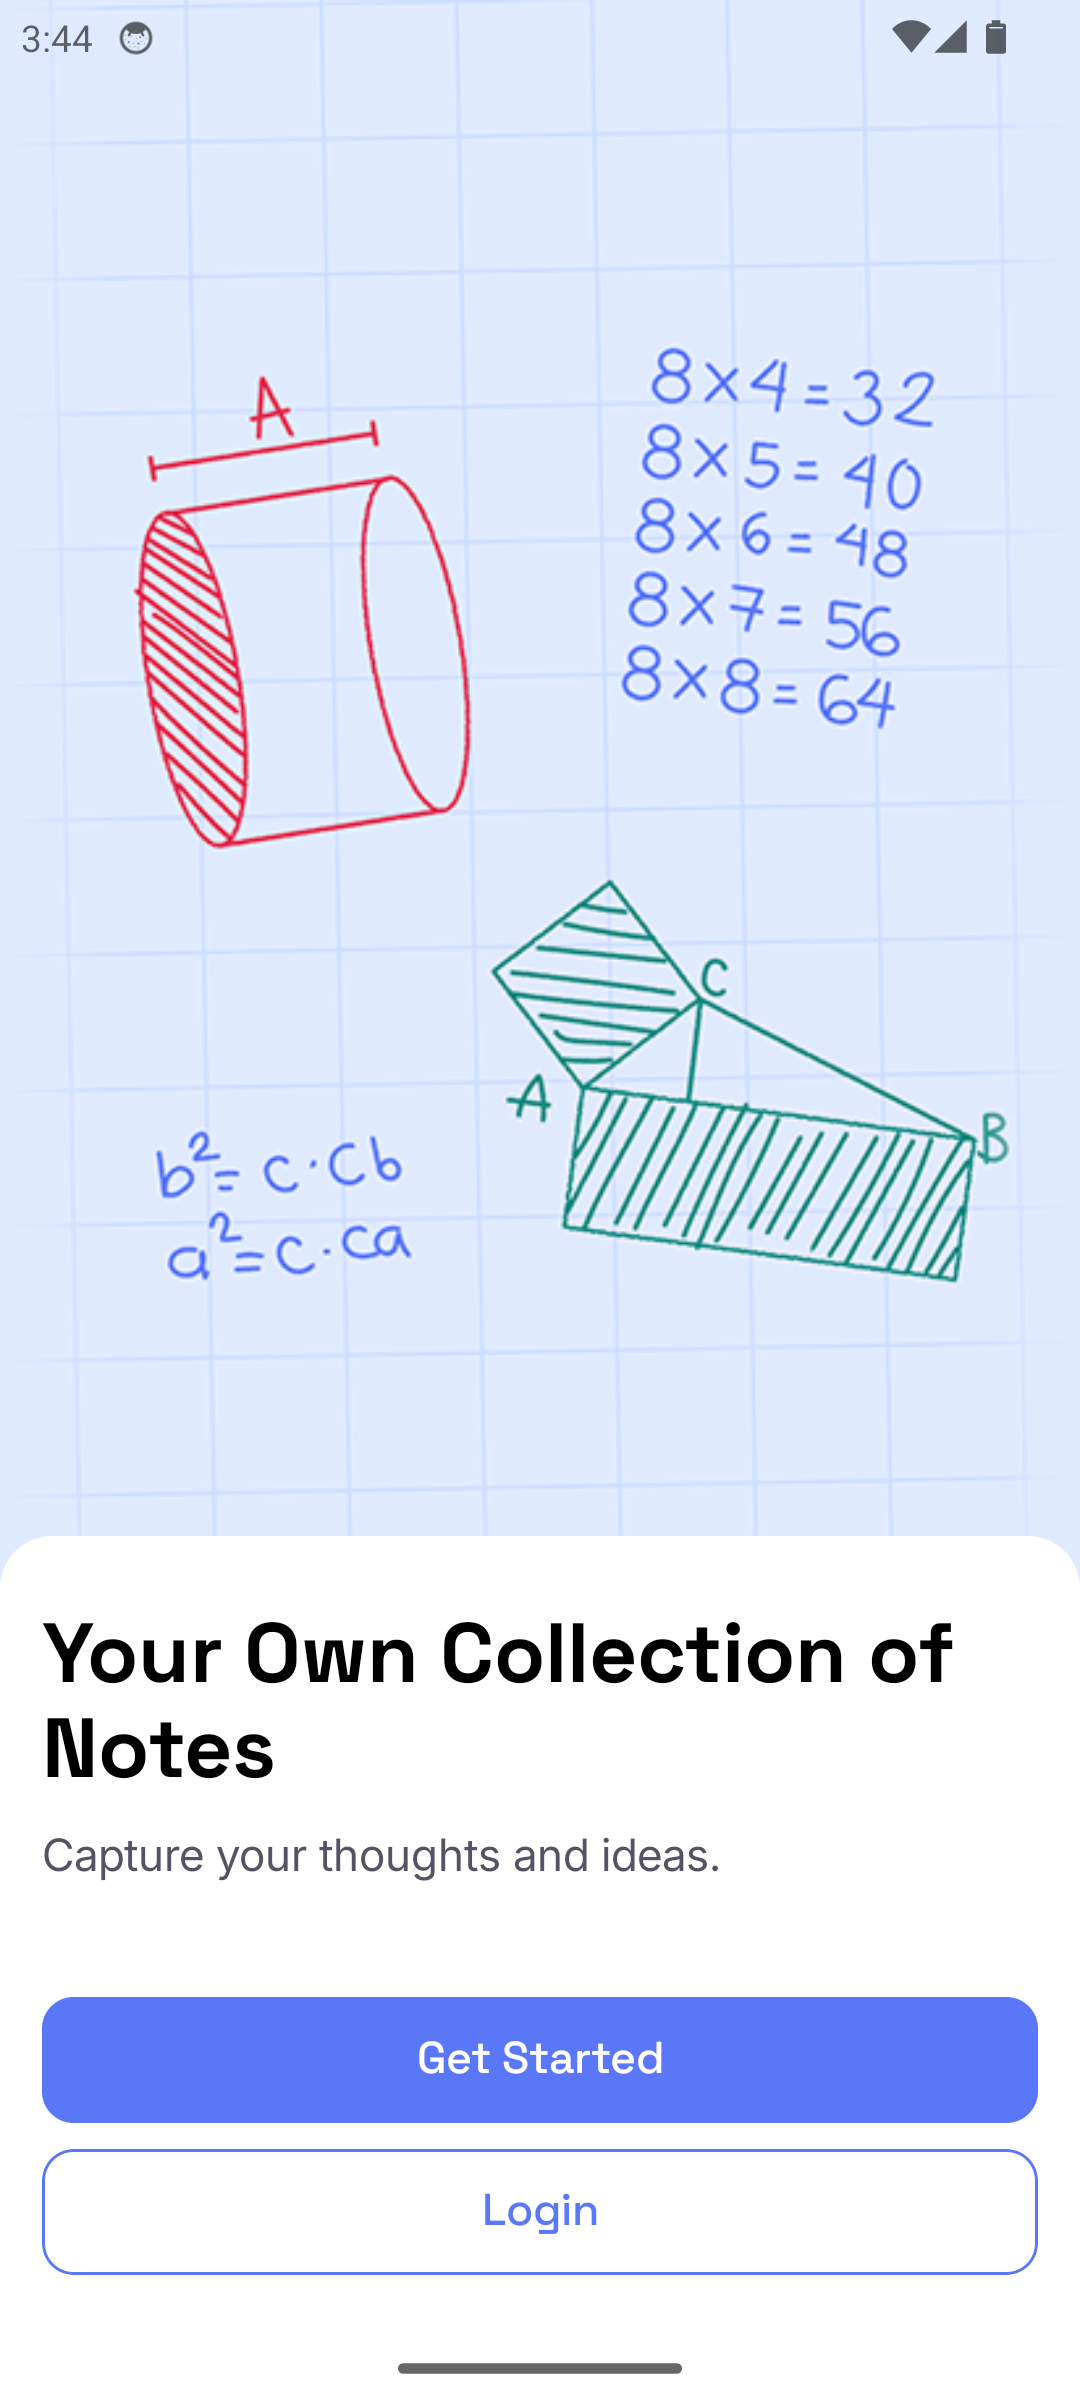
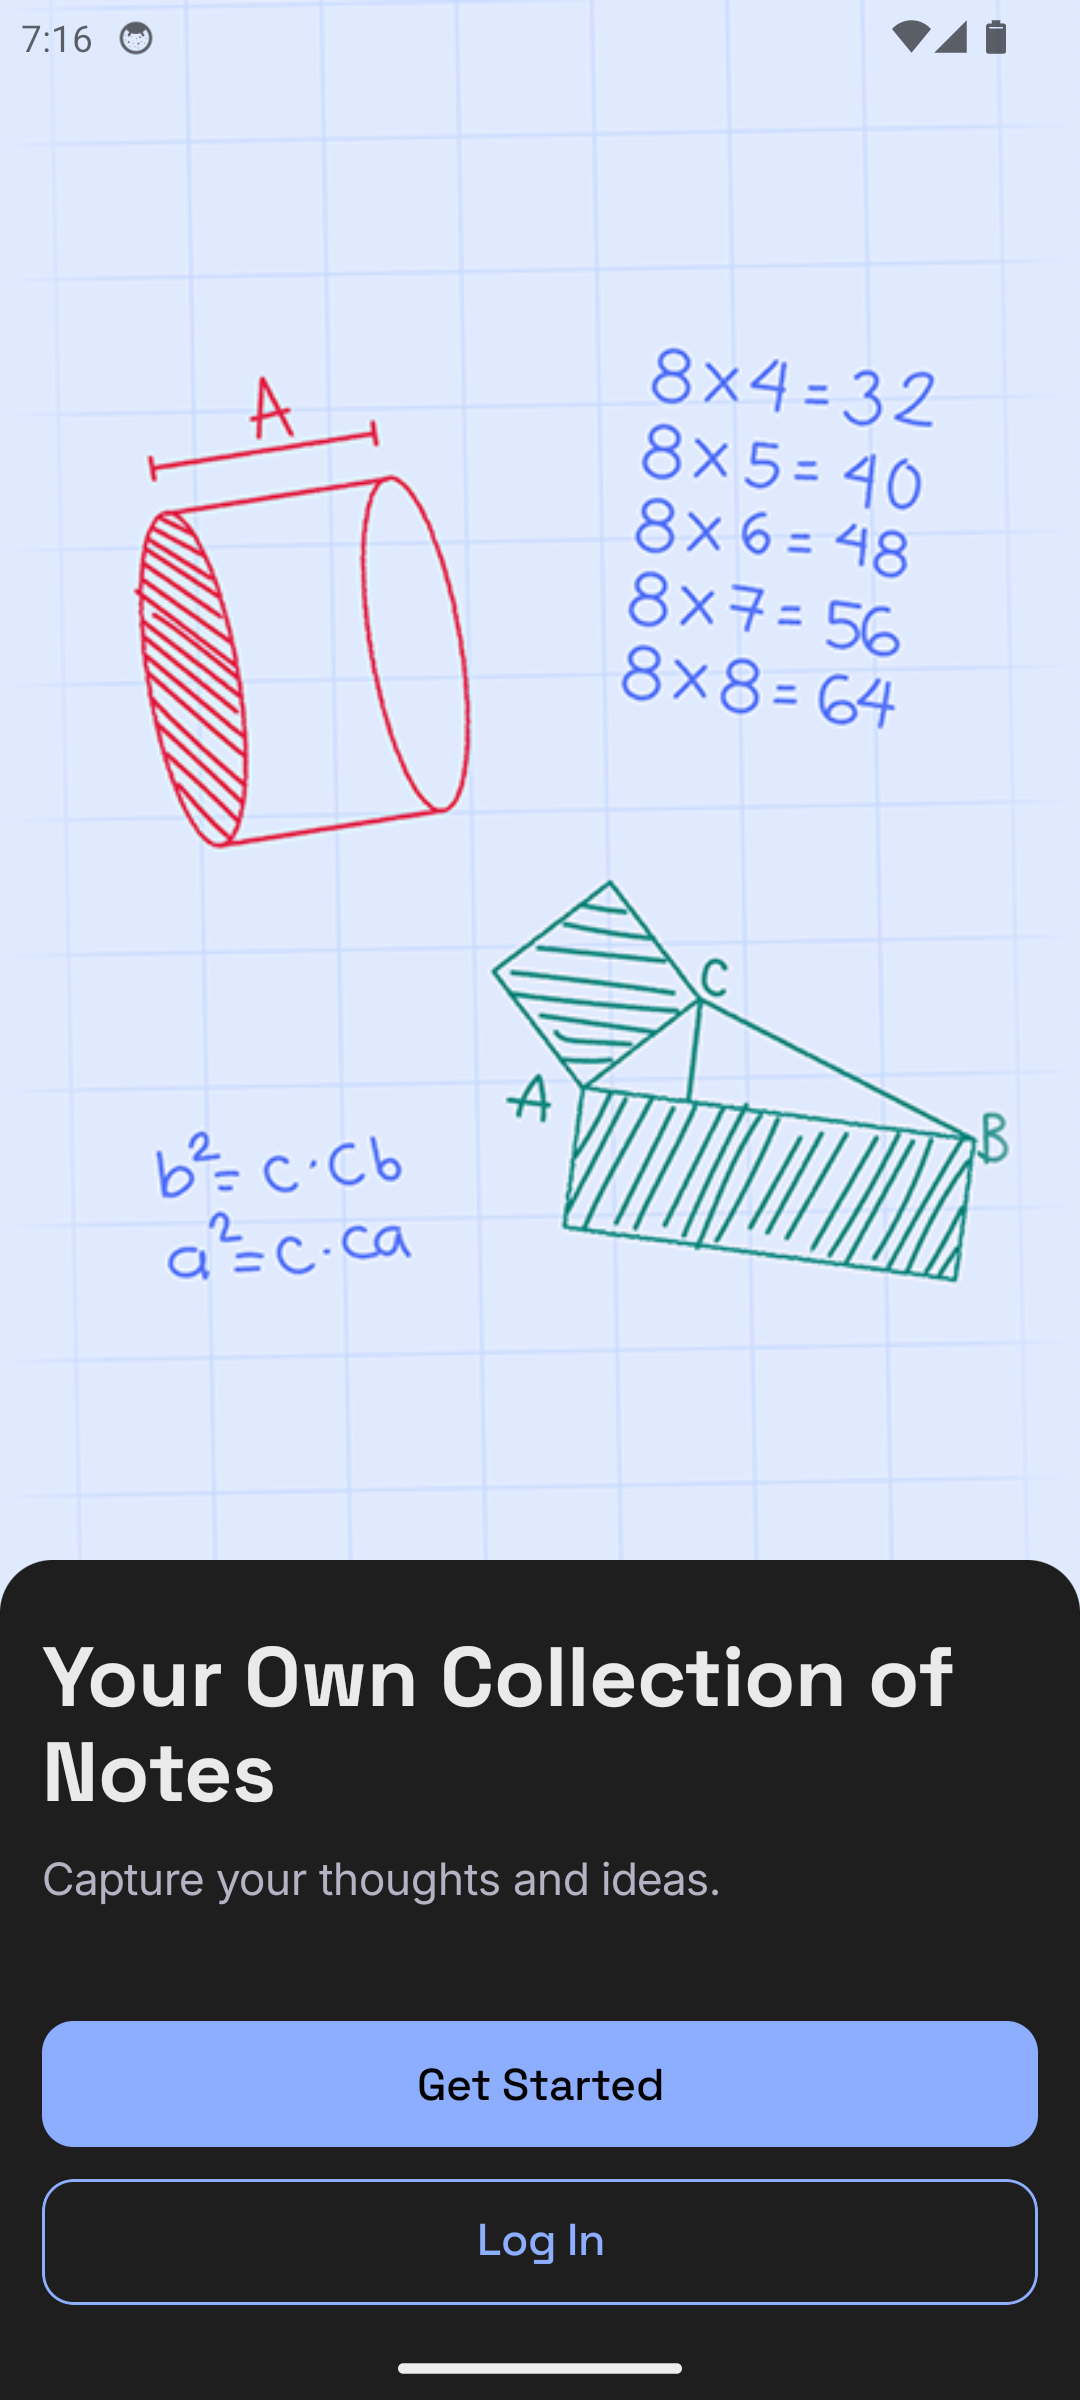
[M2-005] Update readme

diff --git a/app/src/main/java/com/icdid/notemark/navigation/NavigationRoot.kt b/app/src/main/java/com/icdid/notemark/navigation/NavigationRoot.kt
@@ -1,5 +1,9 @@
 package com.icdid.notemark.navigation
 
+import androidx.compose.animation.fadeIn
+import androidx.compose.animation.fadeOut
+import androidx.compose.animation.slideInVertically
+import androidx.compose.animation.slideOutVertically
 import androidx.compose.foundation.layout.fillMaxSize
 import androidx.compose.runtime.Composable
 import androidx.compose.ui.Modifier
@@ -37,10 +41,14 @@ private fun NavGraphBuilder.authGraph(navController: NavHostController) {
     navigation<Screen.Auth>(
         startDestination = Screen.Auth.Landing
     ) {
-        composable<Screen.Auth.Landing> {
+        composable<Screen.Auth.Landing>(
+            exitTransition = {
+                slideOutVertically(targetOffsetY = { -it / 2 }) + fadeOut()
+            },
+        ) {
             LandingScreen(
                 onAction = { action ->
-                    when(action) {
+                    when (action) {
                         LandingAction.OnGettingStartedClicked -> {
                             navController.navigate(Screen.Auth.Register) {
                                 popUpTo(Screen.Auth.Landing) {
@@ -48,6 +56,7 @@ private fun NavGraphBuilder.authGraph(navController: NavHostController) {
                                 }
                             }
                         }
+
                         LandingAction.OnLoginClicked -> {
                             navController.navigate(Screen.Auth.Login) {
                                 popUpTo(Screen.Auth.Landing) {
@@ -59,7 +68,11 @@ private fun NavGraphBuilder.authGraph(navController: NavHostController) {
                 }
             )
         }
-        composable<Screen.Auth.Login> {
+        composable<Screen.Auth.Login>(
+            enterTransition = {
+                slideInVertically(initialOffsetY = { it }) + fadeIn()
+            },
+        ) {
             LoginRoot(
                 onNavigateToRegister = {
                     navController.navigate(Screen.Auth.Register) {
@@ -79,7 +92,11 @@ private fun NavGraphBuilder.authGraph(navController: NavHostController) {
                 },
             )
         }
-        composable<Screen.Auth.Register> {
+        composable<Screen.Auth.Register>(
+            enterTransition = {
+                slideInVertically(initialOffsetY = { it }) + fadeIn()
+            },
+        ) {
             RegisterRoot(
                 onNavigateToLogin = {
                     navController.navigate(Screen.Auth.Login) {
@@ -108,7 +125,11 @@ private fun NavGraphBuilder.homeGraph(navController: NavHostController) {
     navigation<Screen.Home>(
         startDestination = Screen.Home.AllNotes
     ) {
-        composable<Screen.Home.AllNotes> {
+        composable<Screen.Home.AllNotes>(
+            popEnterTransition = {
+                slideInVertically(initialOffsetY = { -it / 2 }) + fadeIn()
+            },
+        ) {
             AllNotesRoot(
                 onNavigateToNoteDetail = {
                     navController.navigate(Screen.Home.NoteDetail(it))
@@ -116,7 +137,14 @@ private fun NavGraphBuilder.homeGraph(navController: NavHostController) {
             )
         }
 
-        composable<Screen.Home.NoteDetail> {
+        composable<Screen.Home.NoteDetail>(
+            enterTransition = {
+                slideInVertically(initialOffsetY = { it })
+            },
+            exitTransition = {
+                slideOutVertically(targetOffsetY = { it })
+            },
+        ) {
             val noteId = it.toRoute<Screen.Home.NoteDetail>().noteId
             NoteDetailRoot(
                 onNavigateBack = {

diff --git a/core/presentation/src/main/java/com/icdid/core/presentation/theme/Theme.kt b/core/presentation/src/main/java/com/icdid/core/presentation/theme/Theme.kt
@@ -1,9 +1,15 @@
 package com.icdid.core.presentation.theme
 
+import android.app.Activity
+import androidx.compose.foundation.isSystemInDarkTheme
 import androidx.compose.material3.MaterialTheme
 import androidx.compose.material3.Typography
+import androidx.compose.material3.darkColorScheme
 import androidx.compose.material3.lightColorScheme
 import androidx.compose.runtime.Composable
+import androidx.compose.runtime.SideEffect
+import androidx.compose.ui.platform.LocalView
+import androidx.core.view.WindowInsetsControllerCompat
 
 private val LightColorScheme = lightColorScheme(
     primary = primary,
@@ -14,14 +20,37 @@ private val LightColorScheme = lightColorScheme(
     surfaceContainerLowest = surfaceLowest,
 )
 
+private val DarkColorScheme = darkColorScheme(
+    primary = darkPrimary,
+    onPrimary = darkOnPrimary,
+    surface = darkSurface,
+    onSurface = darkOnSurface,
+    onSurfaceVariant = darkOnSurfaceVariant,
+    surfaceContainerLowest = darkSurfaceLowest,
+    error = darkError,
+)
+
 private val typography = Typography()
 
 @Composable
 fun NoteMarkTheme(
+    useDarkTheme: Boolean = isSystemInDarkTheme(),
     content: @Composable () -> Unit
 ) {
+    val colors = if (useDarkTheme) DarkColorScheme else LightColorScheme
+    val view = LocalView.current
+    val isLightTheme = !useDarkTheme
+
+    SideEffect {
+        val window = (view.context as? Activity)?.window
+        if (!view.isInEditMode && window != null) {
+            WindowInsetsControllerCompat(window, window.decorView).isAppearanceLightStatusBars =
+                isLightTheme
+        }
+    }
+
     MaterialTheme(
-        colorScheme = LightColorScheme,
+        colorScheme = colors,
         typography = typography,
         content = content
     )

diff --git a/dashboard/presentation/src/main/java/com/icdid/dashboard/presentation/components/NoteDialog.kt b/dashboard/presentation/src/main/java/com/icdid/dashboard/presentation/components/NoteDialog.kt
@@ -1,18 +1,14 @@
 package com.icdid.dashboard.presentation.components
 
-import android.app.Activity
 import androidx.compose.material3.AlertDialog
 import androidx.compose.material3.MaterialTheme
 import androidx.compose.material3.Text
 import androidx.compose.material3.TextButton
 import androidx.compose.runtime.Composable
-import androidx.compose.runtime.SideEffect
-import androidx.compose.ui.platform.LocalView
 import androidx.compose.ui.res.stringResource
 import androidx.compose.ui.text.font.FontWeight
 import androidx.compose.ui.tooling.preview.Preview
 import androidx.compose.ui.window.DialogProperties
-import androidx.core.view.WindowCompat
 import com.icdid.core.presentation.theme.LocalNoteMarkTypography
 import com.icdid.core.presentation.theme.NoteMarkTheme
 import com.icdid.dashboard.presentation.R
@@ -27,14 +23,6 @@ fun NoteDialog(
     confirmText: String,
     dismissText: String
 ) {
-    val view = LocalView.current
-    SideEffect  {
-        val window = (view.context as? Activity)?.window
-        if (!view.isInEditMode && window != null) {
-            WindowCompat.getInsetsController(window, view).isAppearanceLightStatusBars = true
-        }
-    }
-
     if (showDialog) {
         AlertDialog(
             properties = DialogProperties(

diff --git a/auth/presentation/src/main/java/com/icdid/auth/presentation/landing/LandingPortaitView.kt b/auth/presentation/src/main/java/com/icdid/auth/presentation/landing/LandingPortaitView.kt
@@ -83,10 +83,12 @@ fun LandingPortraitView(
                 text = stringResource(R.string.landing_title),
                 style = if (isTablet) {
                     LocalNoteMarkTypography.current.titleXLarge.copy(
+                        color = MaterialTheme.colorScheme.onSurface,
                         textAlign = TextAlign.Center
                     )
                 } else {
                     LocalNoteMarkTypography.current.titleLarge.copy(
+                        color = MaterialTheme.colorScheme.onSurface,
                         textAlign = TextAlign.Start
                     )
                 }

diff --git a/core/presentation/src/main/java/com/icdid/core/presentation/theme/Color.kt b/core/presentation/src/main/java/com/icdid/core/presentation/theme/Color.kt
@@ -20,9 +20,19 @@ val brandOpacity12 = Color(0xFFFFFFFF).copy(alpha = 0.12f)
 val landingLandscape = Color(0xFFE0EAFF)
 // end region
 
-val fabBackground = Brush.linearGradient(
+val fabBackground = Brush.verticalGradient(
     colors = listOf(
         Color(0xFF58A1F8),
         Color(0xFF5A4CF7)
     ),
 )
+
+// region dark mode
+val darkPrimary = Color(0xFF8DAEFF)
+val darkOnPrimary = Color(0xFF000000)
+val darkSurface = Color(0xFF121212)
+val darkOnSurface = Color(0xFFEAEAEA)
+val darkOnSurfaceVariant = Color(0xFFB3B3C3)
+val darkSurfaceLowest = Color(0xFF1E1E1E)
+val darkError = Color(0xFFFF5370)
+// end region

diff --git a/auth/presentation/src/main/java/com/icdid/auth/presentation/login/LoginPortraitView.kt b/auth/presentation/src/main/java/com/icdid/auth/presentation/login/LoginPortraitView.kt
@@ -35,7 +35,7 @@ fun LoginPortraitView(
 
     Column(
         modifier = customModifier,
-        horizontalAlignment = if(isTablet) Alignment.CenterHorizontally else Alignment.Start,
+        horizontalAlignment = if (isTablet) Alignment.CenterHorizontally else Alignment.Start,
     ) {
         LoginTitleView(isTablet = isTablet)
         LoginFormView(

diff --git a/dashboard/presentation/src/main/java/com/icdid/dashboard/presentation/all_notes/AllNotesLandscapeView.kt b/dashboard/presentation/src/main/java/com/icdid/dashboard/presentation/all_notes/AllNotesLandscapeView.kt
@@ -48,6 +48,7 @@ fun AllNotesLandscapeView(
                     ),
                     onAction = onAction,
                     modifier = Modifier
+                        .animateItem()
                 )
             }
         }

diff --git a/dashboard/presentation/src/main/java/com/icdid/dashboard/presentation/all_notes/AllNotesPortraitView.kt b/dashboard/presentation/src/main/java/com/icdid/dashboard/presentation/all_notes/AllNotesPortraitView.kt
@@ -48,6 +48,7 @@ fun AllNotesPortraitView(
                     ),
                     onAction = onAction,
                     modifier = Modifier
+                        .animateItem()
                 )
             }
         }

diff --git a/Readme.md b/Readme.md
@@ -7,18 +7,17 @@
 ## Project Status
 
 This project is divided in 4 different milestones that are launched every fortnight. 
-We are currently working in **milestone 1**
+We are currently working in **milestone 2**
 
 ### 🚨 Latest Features ###
 
-- **Landing Screen**
-  - For the user to choose whether to login or register.
-- **Login Screen**
-  - Three dots animation
-  - Storing tokens and navigating to dashboard when there's a successful login.
-- **Register Screen**
-  - Manage error handling for username, email and password.
-  - Implemented snack bar.
+- **All Notes Screen**
+  - Display list of Note with offline support.
+  - Create new note with default title
+- **Detail Note Screen**
+  - Display detail Note.
+  - Update Note data
+  - Implemented toast for message.
 
 ---
 
@@ -31,44 +30,35 @@ We are currently working in **milestone 1**
 - ✅ Kor Client for Network calls.
 - ✅ Material Design 3 components and theming.
 - ✅ Data Store for user preferences (encrypted with security crypto).
+- ✅ Room for database
 
 ---
 
 ## 🎥 Demo ##
 
-https://github.com/user-attachments/assets/bf4d1fc4-500b-4f3a-8d5f-ecdddd0a1709
+https://github.com/user-attachments/assets/29e42c9d-aed6-4323-bd8f-181c4fba5cdd
 
-## 📱 Screenshots ##
+## 📱 Screenshots (portrait = dark mode || landscape = light mode) ##
 
-### Landing ###
-
-| Mobile Portrait                                                                  | Mobile Landscape                                                                   | 
-|----------------------------------------------------------------------------------|------------------------------------------------------------------------------------|
-| <img src="assets/screenshots/landing/landing_mobile_portrait.png" width="600" /> | <img src="assets/screenshots/landing/landing_mobile_landscape.png" width="1200" /> | 
-
-| Tablet Portrait                                                                  | Tablet Landscape                                                                   |
-|----------------------------------------------------------------------------------|------------------------------------------------------------------------------------|
-| <img src="assets/screenshots/landing/landing_tablet_portrait.png" width="600" /> | <img src="assets/screenshots/landing/landing_tablet_landscape.png" width="1200" /> |
-
-### Register ###
-
-| Mobile Portrait                                                                    | Mobile Landscape                                                                     | 
-|------------------------------------------------------------------------------------|--------------------------------------------------------------------------------------|
-| <img src="assets/screenshots/register/register_mobile_portrait.png" width="600" /> | <img src="assets/screenshots/register/register_mobile_landscape.png" width="1200" /> | 
-
-| Tablet Portrait                                                                    | Tablet Landscape                                                                     |
-|------------------------------------------------------------------------------------|--------------------------------------------------------------------------------------|
-| <img src="assets/screenshots/register/register_tablet_portrait.png" width="600" /> | <img src="assets/screenshots/register/register_tablet_landscape.png" width="1200" /> |
-
-### Login ###
+### All Notes ###
 
 | Mobile Portrait                                                              | Mobile Landscape                                                               | 
 |------------------------------------------------------------------------------|--------------------------------------------------------------------------------|
-| <img src="assets/screenshots/login/login_mobile_portrait.png" width="600" /> | <img src="assets/screenshots/login/login_mobile_landscape.png" width="1200" /> | 
+| <img src="assets/screenshots/home/home_mobile_portrait.png" width="600" /> | <img src="assets/screenshots/home/home_mobile_landscape.png" width="1200" /> | 
 
 | Tablet Portrait                                                              | Tablet Landscape                                                               |
 |------------------------------------------------------------------------------|--------------------------------------------------------------------------------|
-| <img src="assets/screenshots/login/login_tablet_portrait.png" width="600" /> | <img src="assets/screenshots/login/login_tablet_landscape.png" width="1200" /> |
+| <img src="assets/screenshots/home/home_tablet_portrait.png" width="600" /> | <img src="assets/screenshots/home/home_tablet_landscape.png" width="1200" /> |
+
+### Detail Notes ###
+
+| Mobile Portrait                                                              | Mobile Landscape                                                               | 
+|------------------------------------------------------------------------------|--------------------------------------------------------------------------------|
+| <img src="assets/screenshots/detail/detail_mobile_portrait.png" width="600" /> | <img src="assets/screenshots/detail/detail_mobile_landscape.png" width="1200" /> | 
+
+| Tablet Portrait                                                              | Tablet Landscape                                                               |
+|------------------------------------------------------------------------------|--------------------------------------------------------------------------------|
+| <img src="assets/screenshots/detail/detail_tablet_portrait.png" width="600" /> | <img src="assets/screenshots/detail/detail_tablet_landscape.png" width="1200" /> |
 
 ---
 
